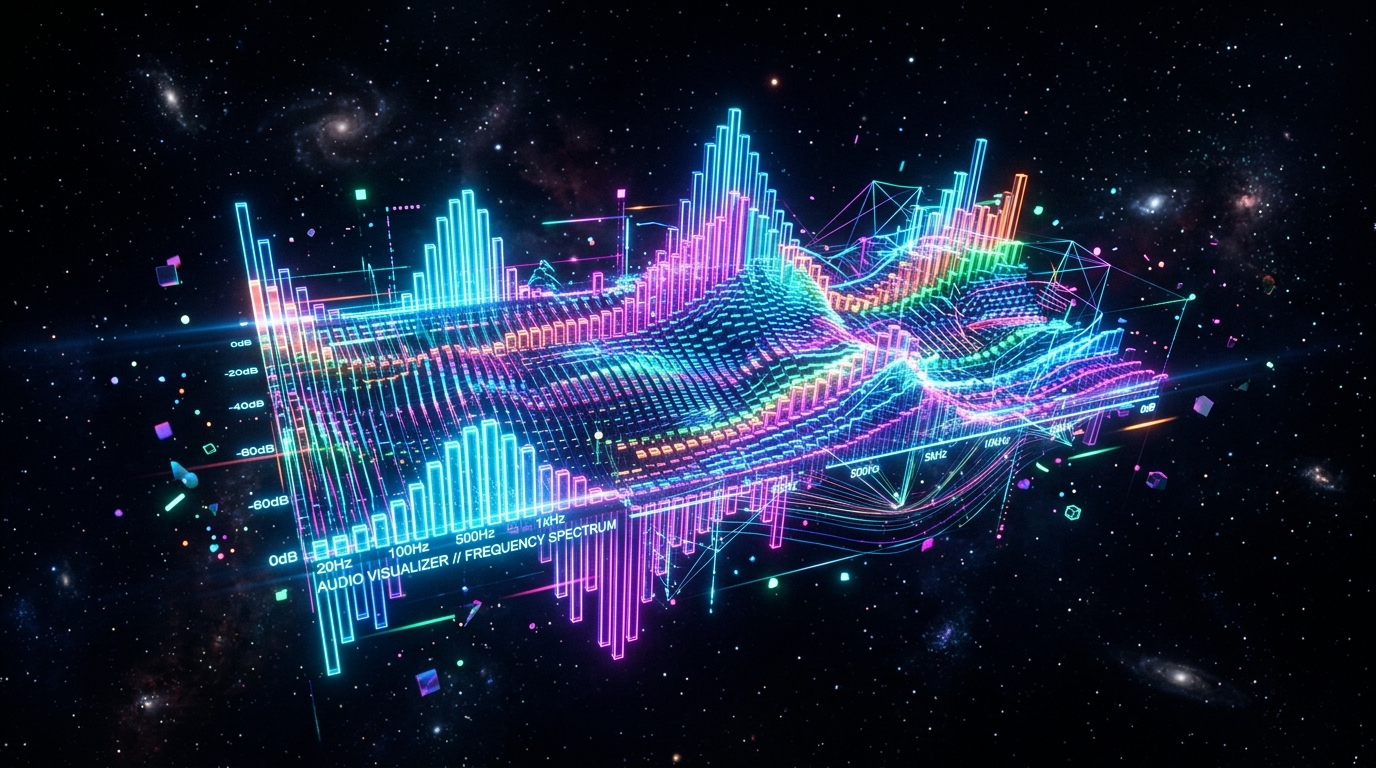
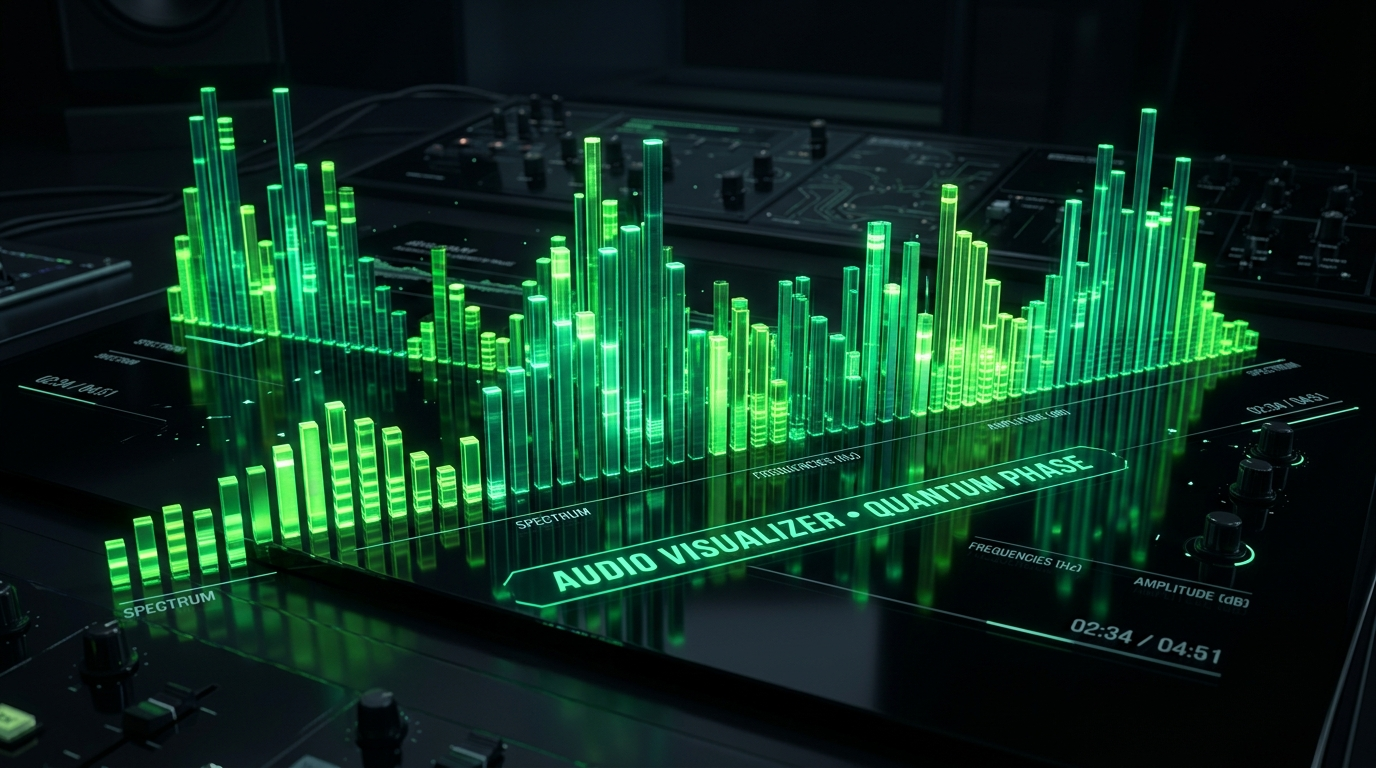
Replace overlapping blue showcase images with distinct Emerald and Lime Green 3D AI renders

diff --git a/src/components/LandingPage.tsx b/src/components/LandingPage.tsx
@@ -375,10 +375,10 @@ export function LandingPage({ onOpenWorkflow }: LandingPageProps) {
 
   // ── Showcase cards ──────────────────────────────────────
   const videoCards = [
-    { id: 1, title: 'Image → 8s Video', tag: 'AI Video Gen', model: 'MiniMax Video-01', gifUrl: './showcase-1.jpg', prompt: 'Cinematic dolly zoom, golden hour lighting' },
-    { id: 2, title: 'Stylized 3D Render', tag: 'AI Image Gen', model: 'FLUX.1 Schnell', gifUrl: './showcase-2.jpg', prompt: 'Futuristic Neo Tokyo, 8k octane render' },
-    { id: 3, title: 'Neon Billboard Gen', tag: 'AI Image Gen', model: 'FLUX Pro', gifUrl: './showcase-3.jpg', prompt: 'Glossy magazine cover, vibrant neon colors' },
-    { id: 4, title: 'Voice Narration Pipeline', tag: 'AI Audio Gen', model: 'OpenAI TTS-1 HD', gifUrl: './showcase-4.jpg', prompt: 'Studio voiceover, warm acoustics, crisp range' },
+    { id: 1, title: 'Image → 8s Video', tag: 'AI Video Gen', model: 'MiniMax Video-01', gifUrl: './showcase-1.jpg', prompt: 'Cinematic character animation, golden hour lighting' },
+    { id: 2, title: 'Stylized 3D Render', tag: 'AI Image Gen', model: 'FLUX.1 Schnell', gifUrl: './showcase-2.jpg', prompt: 'Holographic matrix sphere, emerald green 8k octane render' },
+    { id: 3, title: 'Neon Billboard Gen', tag: 'AI Image Gen', model: 'FLUX Pro', gifUrl: './showcase-3.jpg', prompt: 'Futuristic cyber portrait, glowing lime green & gold accents' },
+    { id: 4, title: 'Voice Narration Pipeline', tag: 'AI Audio Gen', model: 'OpenAI TTS-1 HD', gifUrl: './showcase-4.jpg', prompt: 'Emerald soundwave visualizer, dark obsidian glass acoustics' },
   ];
 
   // Particle dots background
